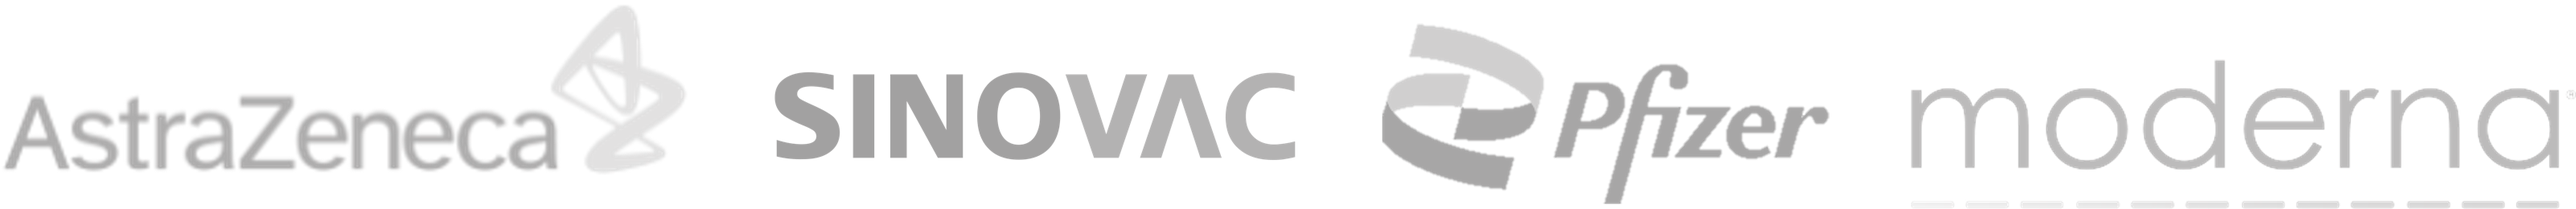
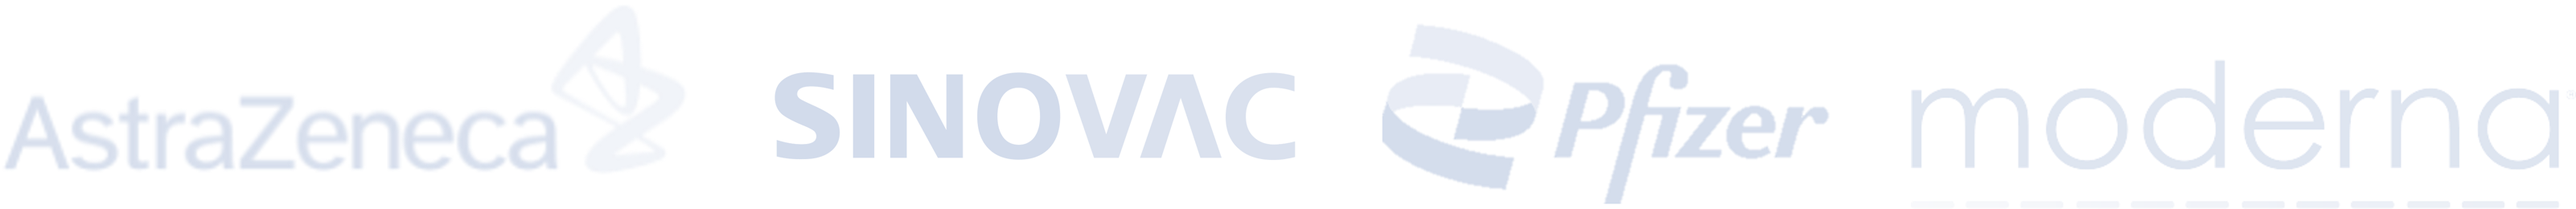
Fixed vaccines image

diff --git a/style.css b/style.css
@@ -162,7 +162,7 @@ i{
 
 .vacunas-img{
     width:100%;
-    padding:5% 10%;
+    padding:10% 10%;
     box-sizing:border-box;
 }
 
